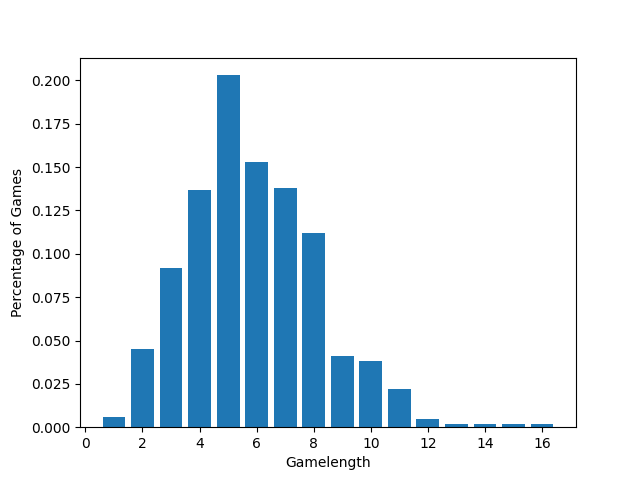
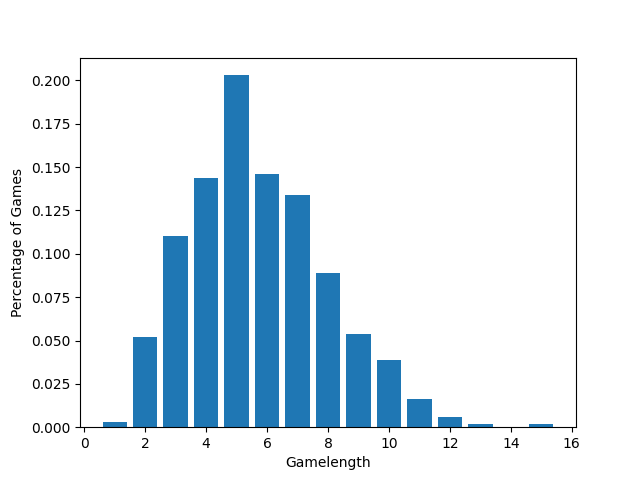
Graphs corrected

Changed region(s): [[0.1562, 0.1562, 0.75, 0.9375], [0.75, 0.875, 0.9062, 0.9375], [0.125, 0.9062, 0.1562, 0.9375]]

diff --git a/full_simulation.py b/full_simulation.py
@@ -16,7 +16,7 @@ for i in range(num):
     fixtures, probs = create_matrices(df, random=True)
     rankings = np.argsort(-probs)
     all_preds = np.zeros([10, 20], dtype=int)
-    all_preds[0] = my_preds(probs, rankings, survivefor=7)
+    all_preds[0] = my_preds(probs, rankings, survivefor=6)
     all_preds[1] = opponent_preds(probs, rankings, num=1)
     for i in np.arange(5) + 2:
         all_preds[i] = opponent_preds(probs, rankings)

diff --git a/README.md b/README.md
@@ -60,12 +60,12 @@ algorithm is the best and should be the benchmark to beat for my algorithm.
 I then coded up my algorithm in predictions.py (which contains the opponents
 algorithms are also). The full simulation is in full_simulation.py. I found
 several values of n for my algorithm where beating the greedy algorithm with
-n=5 being the best (I tried 10,000 runs with n = 3,4,5,6). For the full simulation
+n=6 being the best (I tried 10,000 runs with n = 3,4,5,6,7). For the full simulation
 I also decided to chose to randomise the weeks which were used each time in case 
 the greedy algorithm was particularly good on the first 20 weeks for example.
 
 To conclude my strategy is to optimise the probability of surviving for the
-first 5 weeks and then fill in the rest of the predictions with the greedy
+first 6 weeks and then fill in the rest of the predictions with the greedy
 algorithm. As can be seen in the following graph the expected value of this
 strategy against these opponents is approximately £15.2.
 
